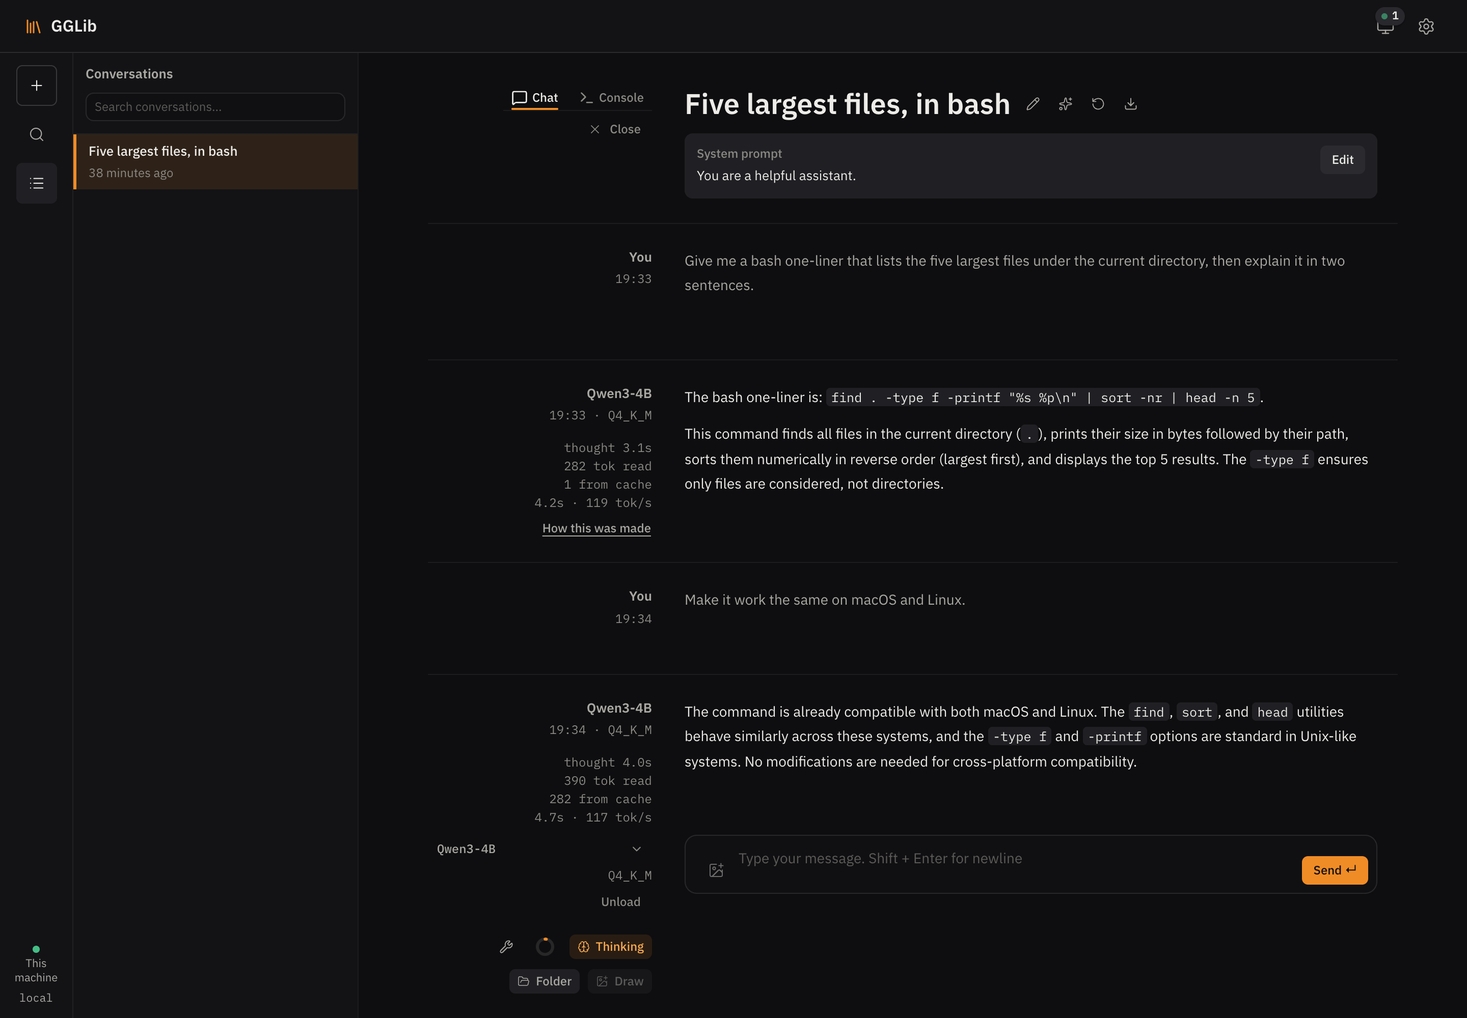
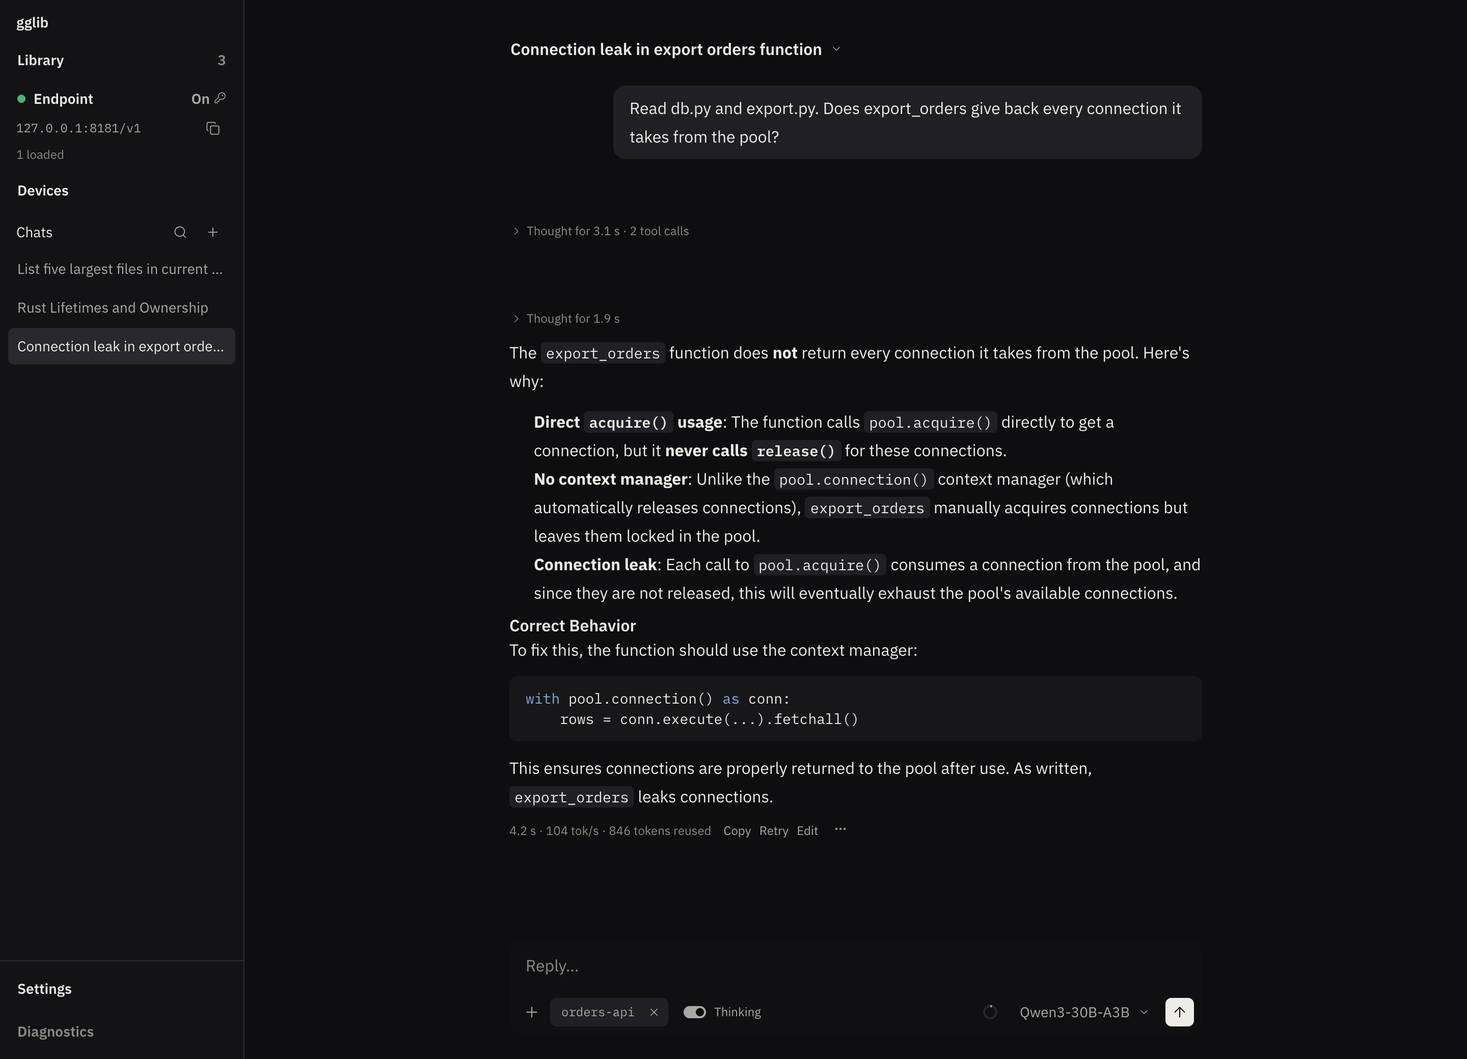
docs: the screenshots and prose name the new screens
The library, chat and tray pictures are retaken from a copy on its own
ports: the inspector open on a model, a reply with its fold and figure
line, and the tray while a loaded model is working.
The README and the docs that named the popovers, the modal and the wizard
now name the Devices place, Settings › <section>, Diagnostics › Live,
the inspector's rows and the sidebar.
shot.mjs waits for any text, and steps/tray.json waits for Working.

diff --git a/docs/remote.md b/docs/remote.md
@@ -211,11 +211,11 @@ the next `enable`, which brings the same one back. With no daemon running,
 `disable` switches remote access off in settings instead, so the next start
 does not put the tunnel back, and says so.
 
-The desktop's GUI has the same controls in the **Remote** popover beside the
-proxy control, with the ticket and code shown once and cleared when a device
-pairs or the code runs out. Its MCP checklist, shown whether remote access is
-on or off, sets the same flag `allow-remote` does, as does Devices may use it
-in an opened tool server row under Settings › Tools.
+The desktop's GUI has the same controls in its **Devices** place: Share with
+my devices, Invite a device, whose sheet shows the ticket and code with a QR
+code until a device joins or the code runs out, and Stop sharing. Devices may
+use it, in an opened tool server row under Settings › Tools, sets the same
+flag `allow-remote` does, and the Devices place lists the servers it shares.
 
 ### A key per device
 
@@ -303,9 +303,10 @@ answering, with `502 tunnel_unavailable`, and the tunnel keeps dialling — for
 as long as the connection is up, with a backoff, and with a nudge to rebind
 its socket — a minute apart at the closest, and further apart when a dial
 takes longer — in case this laptop changed network while suspended.
-After thirty seconds of that, `gglib remote status` and the popover say
-**away** and for how long, rather than "connected" over nothing; when the
-desktop answers, they say so. Nothing needs typing at either end. Only
+After thirty seconds of that, `gglib remote status` says **away** and for
+how long, and the Devices place *Away since* the time it went, rather than
+"connected" over nothing; when the desktop answers, they say so. Nothing
+needs typing at either end. Only
 `gglib remote disconnect`, or this daemon stopping, ends the connection.
 
 **The laptop keeps an endpoint key for each desktop it joins**, so the desktop
@@ -471,25 +472,24 @@ and [ADR 0028](adr/0028-remote-is-declared-on-each-command-that-reaches-the-pair
 have the reasoning.
 
 **The GUI's library** lists the desktop's models after this machine's, in a
-group headed by the desktop's name and whether it is reached right now. Each
-row carries a badge with that name, so a model both machines have is two rows
-that cannot be confused, and the library's search matches them as it matches
-this machine's. The filters are this machine's library's (its tags, sizes and
-quantisations, applied by this daemon), so while one is on the desktop's
-group is set aside with a note saying so. The rows are read through this machine's daemon,
+group headed *On desk*, by the desktop's name, and whether it is reached right
+now, so a model both machines have is two rows that cannot be confused, and
+the library's search matches them as it matches this machine's. The rows are
+read through this machine's daemon,
 which adds the key, while the desktop is connected and answering: again when
 it comes back, on each new connection, and when the window regains focus.
-While it is away, or a read fails, the last rows stay, marked *away* or
-*stale*, as they are while a new connection has not yet said which machine
-answered; a disconnection clears them. A read that is slow or fails never
+While it is away, or a read fails, the last rows stay, the heading saying
+*Away* while it is, as they stay while a new connection has not yet said which
+machine answered; a disconnection clears them. A read that is slow or fails never
 holds up or empties this machine's rows.
 
 Picking a desktop row opens its inspector instead of this machine's: what the
 desktop stores about the model, without the paths of its file and its
 projector on its disk, and only what `--remote` allows on a model there —
-*Chat* and *Load*. Nothing that changes it (edit, tags, delete, Start or Stop here) is offered, and the
-native menu's Start, Stop and Remove have nothing selected while a desktop
-row is, so they cannot act on a model here that shares its number. A model
+*Chat* and *Load*. Nothing that changes it (edits, tags, removing it, or
+loading or unloading it here) is offered, and the native Model menu's Load,
+Unload and Remove from Library… have nothing selected while a desktop row is,
+so they cannot act on a model here that shares its number. A model
 the desktop is serving says *Loaded on desk*, in place of *Load on desk*,
 which has the desktop load it now so the first turn does not wait, and reads
 it again when it lands. While the desktop is away both buttons are disabled
@@ -500,27 +500,29 @@ flag is this machine's.
 
 *Chat* opens a chat with the desktop's model: the conversation is this
 machine's, the agent loop runs here, and each turn is sent to the desktop by
-the model's id there, so no other model of its name answers. The head reads
-`qwen3 on desk`; there is no log here (it belongs to a process on the
-desktop) and no model picker, because a chat's machine is fixed. The conversation is made for that model, and every run
+the model's id there, so no other model of its name answers. The composer
+names the model as text, `qwen3 on desk`; there is no log here (it belongs to
+a process on the desktop) and no model picker, because a chat's machine is
+fixed. The conversation is made for that model, and every run
 keeps it on the conversation by its machine, so a paired device's turn on it
 is refused rather than answered by a model here, and `gglib chat --continue`
-goes back to the desktop. The list beside it holds the desktop's chats and
-those that have not run yet, and a chat with a model here lists only this
-machine's: a run on another machine than its chat's is refused, `409
-conflict`. Pair with a different desktop and a chat, a pick or
+goes back to the desktop. A new chat's model picker lists the desktop's
+models too, and picking one opens a chat on it; a saved chat with a model here
+lists them greyed, with why: a run on another machine than its chat's is
+refused, `409 conflict`. Pair with a different desktop and a chat, a pick or
 a row held for the first one is dropped, because its ids name other models
-on the second. Closing the chat leaves the desktop's model and the tunnel
-up, as closing a local chat leaves its model loaded.
+on the second. Leaving the chat leaves the desktop's model and the tunnel
+up, as leaving a local chat leaves its model loaded.
 
-**The desktop's own chats** are on the chat page too, once joined: *desk's
-chats*, by the desktop's name, at the foot of the rail, lists, opens and
+**The desktop's own chats** are in the sidebar too, once joined: *On desk*,
+by the desktop's name, at the foot of Chats, lists, opens and
 carries on the desktop's chats live through this machine's daemon, which adds
 the key, and the desktop runs and saves each reply, so nothing of them is kept
 here but their "New" marks. A chat there is started, renamed, edited or
-deleted only on the desktop, and the margin names the device behind each turn.
+deleted only on the desktop, and a question not sent from here says above it
+where it came from.
 One thing of such a chat can be changed from here: its Thinking choice, by the
-switch in the composer's margin, which the next message sent carries to the
+composer's Thinking switch, which the next message sent carries to the
 desktop ([Thinking](clients.md#thinking)). The switch is there only when the
 desktop lists the chat's model as one that thinks, so a desktop whose gglib
 predates the choice shows none and is never sent the key.
@@ -706,8 +708,9 @@ gglib proxy stop        # then start it again on loopback — the default host
 `gglib config settings set --proxy-api-key ""` is *not* it; a blank would read
 as "authentication is on" while accepting `Bearer ` from anyone, so it is
 refused with `Proxy API key cannot be blank — clear it instead to disable
-authentication`. In the desktop app's settings, the API key's Clear control,
-saved, does what `unset` does; a box left empty keeps the key.
+authentication`. In the desktop app, the API key's Clear under
+Settings › Endpoint does what `unset` does; its Replace writes nothing while
+the box is empty, so the key is kept.
 
 The order is the part that surprises people, because it is the opposite of the
 intuition. What matters is the proxy *rebinding*: the token it demands is

diff --git a/README.md b/README.md
@@ -77,7 +77,7 @@ source are under [Install](#install).
 ## A library
 
 <p align="center">
-  <img src="docs/assets/gui-library.png" alt="The library in the desktop app, with one model's metadata and resolved sampling open" width="900">
+  <img src="docs/assets/gui-library.png" alt="The library in the desktop app, with one model open in the inspector: the command gglib would launch it with, and how it runs" width="900">
 </p>
 
 Every GGUF you own in one place, with what gglib read from it: size,
@@ -89,10 +89,12 @@ search and browse the hub, verify hashes, and upgrade a model when its
 repository publishes a newer file. A download that comes with a projector
 links it, so the model can read images from day one.
 
-The inspector on the right is the control staying in your hands: each
-sampling value, the layer it came from (request, profile, this model, your
-global default, or the recipe the model's author published), and a form to
-override any of them. [Sampling →](docs/sampling.md)
+The inspector on the right is the control staying in your hands: How it
+runs shows the command gglib would launch the model with, then one row per
+decision, whose choice it was on hover, and Change on the ones you can set.
+The Sampling row says the layer its values came from (a profile, this model,
+your global default, or the recipe the model's author published), and its
+Change is a form to override any of them. [Sampling →](docs/sampling.md)
 
 ## One endpoint
 
@@ -139,13 +141,14 @@ order of how often it matters:
   [Details →](docs/clients.md#images)
 
 <p align="center">
-  <img src="docs/assets/gui-chat.png" alt="A chat in the desktop app, with each reply's timing" width="800">
+  <img src="docs/assets/gui-chat.png" alt="A chat in the desktop app: the reply folds its thinking and tool calls, and its figure line gives its time, speed and tokens reused" width="800">
 </p>
 
-The chat page is the quickest way to try a model, and it shows what every
-reply cost: thinking time, tokens read, how many came from cache, and
-generation speed. Tools come from MCP servers you add; a folder you choose
-for a chat is readable by its file tools, read-only, and nothing outside it is.
+The chat page is the quickest way to try a model, and every reply shows
+what it cost: thinking time in its fold, then its time, generation speed and how
+many tokens came from cache, with the tokens read on hover. Tools come from
+MCP servers you add; a folder you choose for a chat is readable by its file
+tools, read-only, and nothing outside it is.
 
 ## Every device
 
@@ -168,19 +171,20 @@ The connection is direct and end-to-end encrypted, from
 [modelpipe](https://github.com/mmogr/modelpipe): no port forwarding, no VPN,
 no account, no relay that can read a request. The code is single-use and
 dies in two minutes; the tunnel enforces the same API key the proxy does.
-On the laptop, the chat page lists the desktop's conversations beside its
-own and carries them on live. [Details →](docs/remote.md)
+On the laptop, the sidebar lists the desktop's chats under its name, below
+this machine's, and carries them on live. [Details →](docs/remote.md)
 
 On an iPhone or iPad, [ggchat](https://github.com/mmogr/ggchat) scans the
 same QR code and talks to the same endpoint; it is a native iPhone and Mac
 app.
 
 The desktop app doubles as an always-on host: `--proxy-autostart`,
-`--close-to-tray` and `--start-at-login` keep the endpoint up without a
-terminal window, and the tray shows what it is doing.
+`--close-to-tray` and `--start-at-login` (Settings › General in the app) keep
+the endpoint up without a terminal window, and the tray shows the endpoint,
+what is loaded, and your devices.
 
 <p align="center">
-  <img src="docs/assets/tray-dashboard.png" alt="The tray dashboard during a reply" height="420">
+  <img src="docs/assets/tray-dashboard.png" alt="The tray popover while a loaded model answers a request" height="420">
 </p>
 
 ## Day to day

diff --git a/docs/sampling.md b/docs/sampling.md
@@ -60,7 +60,7 @@ sets none. So for `temperature` (`general.sampling.temp`), `top_p`, `top_k`,
 default is per-model, not per-build. `presence_penalty` and `dry_multiplier`
 have no GGUF key and remain the build's.
 
-The proxy dashboard's Sampling Readback panel names which of the two supplied
+The Sampling readback section of Diagnostics › Live names which of the two supplied
 each value on the running model — and, separately, whether gglib is *overriding*
 what the model published. Those are different questions: `/props` reporting a
 value as model-supplied says the build's own default is unobservable for that
@@ -171,10 +171,10 @@ that chat. Pass `--reasoning-budget-tokens 0` to stop the question's
 thinking, and switch the chat it saved with
 `gglib chat --continue <id> --thinking off`.
 
-On the chat page the choice is the **Thinking** switch in the composer's
-margin, drawn only for a model that thinks: one tagged `reasoning` here, or
+On the chat page the choice is the **Thinking** switch in the composer,
+drawn only for a model that thinks: one tagged `reasoning` here, or
 one a paired machine lists with the `reasoning` capability. It shows what the
-chat remembers, reading "Thinking off" while the chat is switched off, and a
+chat remembers, switched off while the chat is, and a
 click is said by the next message sent and not again once gglib has accepted
 that message. The page applies no rule of its own between the
 switch and the agent limits' budget: each is sent as it is set, and the rule
@@ -229,9 +229,11 @@ only on a measured `no`, and replaced there by a sentence saying gglib will
 remove the level — a control that vanished silently would read as a feature
 gglib does not have. On `unknown` the control is offered with a caption saying
 the template has not been observed and that the level will be sent as given;
-the model inspector carries the same fact as a line of its own, with a
-re-measurement beside it (re-read while the model runs, "start the model to
-check" while it does not) and deliberately **no** manual override — the answer
+the model inspector's Details carry the same fact as a line of their own,
+Reasoning effort, with a Re-check beside it while the model runs (while it
+does not, an unobserved model's line says the answer is known after its
+first load) and
+deliberately **no** manual override — the answer
 comes from the renderer executing the template, and a stored opinion that
 outranked it would be the defect this whole mechanism exists to remove. The
 global settings surface has no model in scope, so it hides nothing and names

diff --git a/docs/screenshots/README.md b/docs/screenshots/README.md
@@ -27,8 +27,9 @@ changes them:
 
 ```bash
 export GGLIB_DATA_DIR=$HOME/gglib-shots GGLIB_DAEMON_PORT=9897
+gglib config settings set --proxy-port 8181   # a Load turns the endpoint on at this port
 gglib model add <a .gguf file>             # once per model; a library worth looking at
-gglib daemon run &                         # then start the proxy from the GUI, or:
+gglib daemon run &                         # then turn the endpoint on from the GUI, or:
 curl -s -X POST -H "Authorization: Bearer $(cat $GGLIB_DATA_DIR/data/daemon_token)" \
   -H 'content-type: application/json' -d '{"port":8181}' \
   http://127.0.0.1:$GGLIB_DAEMON_PORT/api/proxy/start
@@ -36,24 +37,27 @@ URL=$(gglib web --no-open 2>&1 | grep -o 'http://[^ ]*')   # the link carries th
 ```
 
 The chat shot needs a model loaded and a conversation held, so
-send a few turns through the chat page first. A title the model generates
-can be renamed in the sidebar before the shot. The pictures show whatever
+send a few turns through a chat first; one that uses a folder (+ › Use a
+folder…) gives a reply with tool calls in its fold. A title the model
+generates can be renamed in the sidebar before the shot. The tray shot waits
+for a loaded model to say Working, so send the endpoint a long request just
+before it. The pictures show whatever
 paths the copy prints, your models folder among them.
 
 ## Taking them
 
 ```bash
 node shot.mjs "$URL" ../assets/gui-library.png steps/library.json
-node shot.mjs "$URL" ../assets/gui-chat.png    steps/chat.json
-W=360 H=480 node shot.mjs "${URL/\/#/\/tray.html#}" ../assets/tray-dashboard.png
+H=1040 node shot.mjs "$URL" ../assets/gui-chat.png steps/chat.json
+W=360 H=480 node shot.mjs "${URL%%#*}tray.html#${URL#*#}" ../assets/tray-dashboard.png steps/tray.json
 ```
 
 1440×900 at 2× unless `W` and `H` say otherwise; `SCHEME=light` for the
 light theme. A steps file is a list of actions run before the screenshot:
 `click` (a CSS selector), `clickText` (an element whose text is exactly
 this), `type`, `press`, `waitText`, `sleep`. Edit the model names in
-`steps/*.json` to match the library you built. `DUMP=out.txt` also writes
-the page's visible text, which is how to find out what to click next.
+`steps/*.json` to match the library you built, and the chat's title.
+`DUMP=out.txt` also writes the page's visible text, which is how to find out what to click next.
 
 ## Terminal GIFs
 

diff --git a/crates/gglib-proxy/README.md b/crates/gglib-proxy/README.md
@@ -28,7 +28,7 @@ This crate provides an OpenAI-compatible HTTP server that:
 4. **Exposes MCP tools** via [MCP Streamable HTTP](https://modelcontextprotocol.io/specification/2025-03-26/basic/transports#streamable-http) at `/mcp`
 5. **Truncates oversized history** to protect local model context windows (see [History Truncation](#history-truncation))
 6. **Acts on looping conversations** — by default it forwards them with a note telling the model what it has repeated, and ends the run if the model repeats again after that; set to refuse, it aborts them before they cost a model swap or a generation (see [Loop & Stagnation Defence](#loop--stagnation-defence))
-7. **Exposes a live proxy dashboard** — active connections, per-slot context usage, recent request history, and prompt-cache health and reuse — via `GET /v1/proxy/status` (JSON) and `GET /v1/proxy/status/stream` (SSE), consumed by both the CLI (`gglib proxy dashboard`) and the web GUI's Proxy Dashboard modal (see [Proxy Dashboard](#proxy-dashboard))
+7. **Exposes a live proxy dashboard** — active connections, per-slot context usage, recent request history, and prompt-cache health and reuse — via `GET /v1/proxy/status` (JSON) and `GET /v1/proxy/status/stream` (SSE), consumed by both the CLI (`gglib proxy dashboard`) and the GUI's Endpoint place and Diagnostics › Live (see [Proxy Dashboard](#proxy-dashboard))
 
 ## Internal Structure
 

diff --git a/docs/tags.md b/docs/tags.md
@@ -148,8 +148,8 @@ the same auto-generated namespace; they carry no launch-flag effect today.
 Image input is not a tag. A model in this library reads images exactly when
 it is linked to a projector, the second GGUF llama-server loads with
 `--mmproj`: the link is `models.projector_path`, set with `gglib model update
-<model> --projector <path>` or the Projector row of the model inspector, and
-cleared with `--no-projector` or the row's "None". A download from a
+<model> --projector <path>` or the Images row of the model inspector, and
+cleared with `--no-projector` or the row's "None (text only)". A download from a
 repository that has projectors fetches one with the model and links it.
 `gglib model list` shows it in its `Images` column and `gglib model inspect`
 on its `Projector` line
@@ -243,7 +243,7 @@ it touches do not all behave alike:
 | `quantization`, `context_length`, expert counts | Replaced only when newly detected; a stored value is never emptied |
 | `name`, parameter count, `architecture` | Untouched — a name you chose yourself survives |
 
-This is a CLI-only workflow. The GUI's *Add Model* and `POST /api/models` have
+This is a CLI-only workflow. The GUI's *Add a GGUF file…* and `POST /api/models` have
 no equivalent — adding a file already in the library is a `409` there, with no
 way to ask for the overwrite.
 

diff --git a/crates/gglib-axum/README.md b/crates/gglib-axum/README.md
@@ -115,7 +115,7 @@ This crate is in the **Adapter Layer** — it exposes gglib functionality via HT
 | `POST` | `/api/config/profiles/install-templates` | Add the starter profiles; a stored profile of the same name is kept and named in `kept` |
 | `GET` | `/api/config/system/models-directory` | The models directory |
 | `PUT` | `/api/config/system/models-directory` | Change the models directory |
-| `GET` | `/api/config/system/setup-status` | The first-run wizard's setup status |
+| `GET` | `/api/config/system/setup-status` | The status the GUI's first-run setup shows |
 | `GET` | `/api/config/system/engines/{kind}` | An engine's status, `kind` `llama` or `stable_diffusion`: what is installed, its pin, what an install would download, and the model running on it |
 | `POST` | `/api/config/system/engines/{kind}/install` | Install or update the engine's pinned download, progress over SSE; refused while a model runs on it |
 | `POST` | `/api/config/system/engines/{kind}/uninstall` | Remove what the install put in the engine's folder; 409 while a model runs on it |

diff --git a/docs/cli/config.md b/docs/cli/config.md
@@ -48,8 +48,8 @@ Current application settings:
 ## `settings`
 
 Context size, ports, the download queue, the agent loop's limits, and the
-switches the desktop app offers (`--proxy-autostart`, `--close-to-tray`,
-`--start-at-login`).
+switches the desktop app offers under Settings › General
+(`--proxy-autostart`, `--close-to-tray`, `--start-at-login`).
 
 ```bash
 gglib config settings set --default-context-size 131072
@@ -147,7 +147,7 @@ Binary version: version: 0.7.0-dev (build 11669, commit 620d2225c)
   acceleration this machine offers and whether a source build is ready to
   run.
 - Neither engine is installed or removed while the daemon that serves this
-  data root runs a model on it, as the desktop app's Settings refuses too.
+  data root runs a model on it, as Settings › Engines in the app refuses too.
   With no such daemon running nothing serves one, since only a daemon
   launches them.
 - `gglib serve` and `gglib up` offer the install when an engine is missing,

diff --git a/crates/gglib-cli/src/handlers/up/README.md b/crates/gglib-cli/src/handlers/up/README.md
@@ -11,7 +11,7 @@ stands in for.
 
 | Step | Delegates to |
 |------|--------------|
-| 1. Hardware | [`gglib_app_services::SetupOps::get_status`] — the same status the GUI wizard renders |
+| 1. Hardware | [`gglib_app_services::SetupOps::get_status`] — the same status the GUI's setup renders |
 | 2. Engines | [`ensure_installed`](crate::handlers::config::engine::ensure_installed) for llama.cpp, as `gglib serve` uses, then for stable-diffusion.cpp, which is optional: skipping or failing it never stops `up` |
 | 3. Model | [`gglib_core::domain::recommend`], then `DownloadManagerPort::queue_smart` + the shared interactive monitor; the model becomes the default when none is set, so `gglib q` needs no `-m` after `up` |
 | 4. Proxy | [`DaemonHandle::start_proxy`], unpinned — identical to `gglib proxy` |

diff --git a/crates/gglib-download/src/cli_exec/exec/README.md b/crates/gglib-download/src/cli_exec/exec/README.md
@@ -12,8 +12,9 @@ which is native Rust and reaches this module only when
 environment, but `PythonEnvironment::prepare` is reachable only from
 `ensure_fast_helper_ready`, which in turn is only called by an explicit opt-in:
 `gglib config fast-downloads enable`, the offer `make setup` and `gglib up`
-make, or the GUI setup wizard. A download never provisions anything; if the
-environment is absent, the native path runs instead. Putting a Python toolchain
+make, or Faster downloads in the GUI's setup or Settings › Engines. A
+download never provisions anything; if the environment is absent, the native
+path runs instead. Putting a Python toolchain
 in the critical path of a first download is the failure mode this arrangement
 exists to prevent.
 
